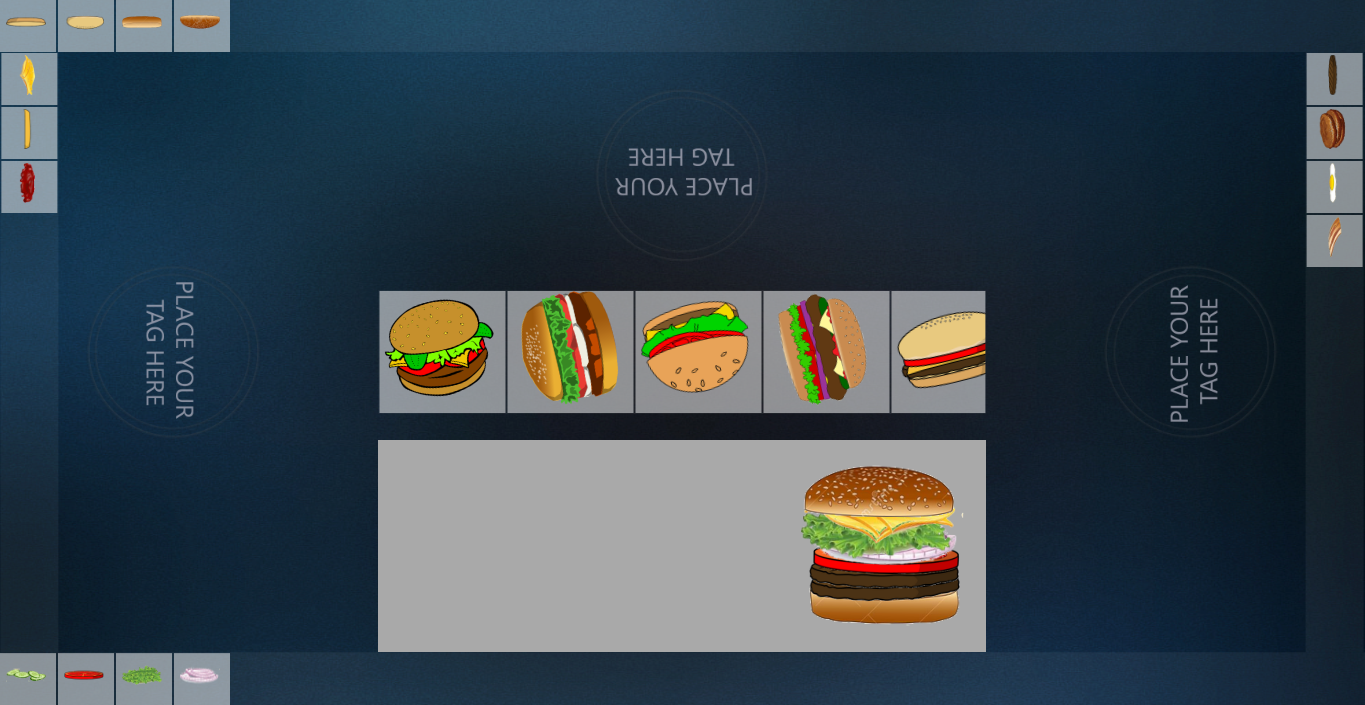
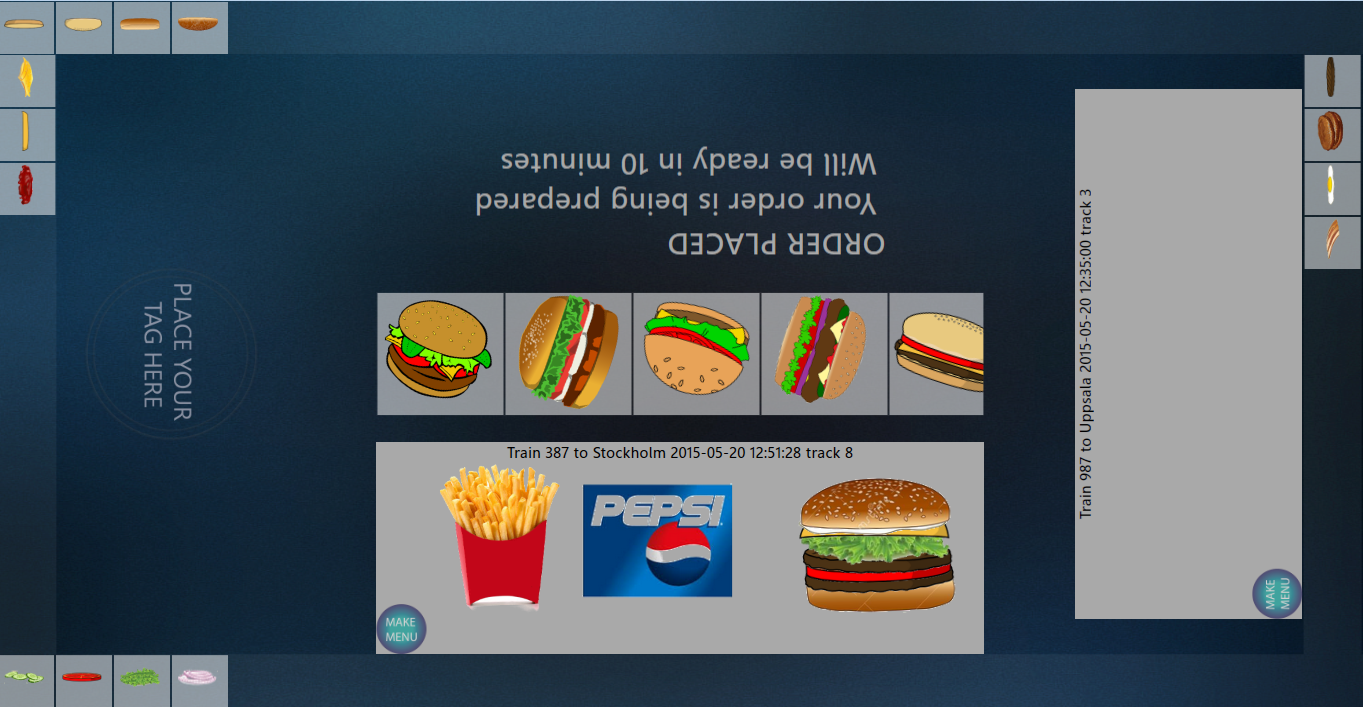
Tag fix and image update

diff --git a/TabletopBurgers/TabletopBurgers/SurfaceWindow1.xaml b/TabletopBurgers/TabletopBurgers/SurfaceWindow1.xaml
@@ -275,7 +275,7 @@
         </Image>
 
         <!-- "Make menu" buttons-->
-        <Image Source="Images/make_menu.png" Name="Make_menu_right" Grid.Column="5" Grid.Row="2" VerticalAlignment="Bottom" HorizontalAlignment="Right" MaxWidth="50" MaxHeight="50" Opacity="0.7" Visibility="Hidden">
+        <Image Source="Images/make_menu.png" Name="Make_menu_right" Grid.Column="5" Grid.Row="4" VerticalAlignment="Bottom" HorizontalAlignment="Right" MaxWidth="50" MaxHeight="50" Opacity="0.7" Visibility="Hidden">
             <Image.LayoutTransform>
                 <RotateTransform Angle="270"/>
             </Image.LayoutTransform>
@@ -297,7 +297,7 @@
         </Image>
 
         <!--- Train info labels -->
-        <TextBlock Name="Train_label_right" Grid.Column="5" Grid.Row="3" VerticalAlignment="Center" HorizontalAlignment="Left" FontSize="15" Foreground="Black" Visibility="Hidden">
+        <TextBlock Name="Train_label_right" Grid.Column="5" Grid.Row="2" Grid.RowSpan="3" VerticalAlignment="Center" HorizontalAlignment="Left" FontSize="15" Foreground="Black" Visibility="Hidden">
             <TextBlock.LayoutTransform>
                 <RotateTransform Angle="270"/>
             </TextBlock.LayoutTransform>
@@ -312,7 +312,7 @@
                 <RotateTransform Angle="0"/>
             </TextBlock.LayoutTransform>
         </TextBlock>
-        <TextBlock Name="Train_label_left" Grid.Column="1" Grid.Row="3" VerticalAlignment="Center" HorizontalAlignment="Right" FontSize="15" Foreground="Black" Visibility="Hidden">
+        <TextBlock Name="Train_label_left" Grid.Column="1" Grid.Row="2" Grid.RowSpan="3" VerticalAlignment="Center" HorizontalAlignment="Right" FontSize="15" Foreground="Black" Visibility="Hidden">
             <TextBlock.LayoutTransform>
                 <RotateTransform Angle="90"/>
             </TextBlock.LayoutTransform>

diff --git a/TabletopBurgers/TabletopBurgers/SurfaceWindow1.xaml.cs b/TabletopBurgers/TabletopBurgers/SurfaceWindow1.xaml.cs
@@ -525,30 +525,32 @@ namespace Drag_and_Drop
             if (c.GetIsTagRecognized() == true)
             {
                 long tagNumber = c.GetTagData().Value;
-
-                Place_tag_left.Visibility = Visibility.Collapsed;
-                Tag tag = TagItems[tagNumber];
-                if (tag.orderPlaced)
+                if (TagItems.ContainsKey(tagNumber))
                 {
-                    Order_placed_left.Visibility = Visibility.Visible;
-                    String minute;
-                    if (tag.timeLeft == 1)
+                    Place_tag_left.Visibility = Visibility.Collapsed;
+                    Tag tag = TagItems[tagNumber];
+                    if (tag.orderPlaced)
                     {
-                        minute = " minute";
+                        Order_placed_left.Visibility = Visibility.Visible;
+                        String minute;
+                        if (tag.timeLeft == 1)
+                        {
+                            minute = " minute";
+                        }
+                        else
+                        {
+                            minute = " minutes";
+                        }
+                        Order_placed_left.Text = "ORDER PLACED\n Your order is being prepared\n Will be ready in " + tag.timeLeft + minute;
                     }
                     else
                     {
-                        minute = " minutes";
+                        scatterLeft.Visibility = Visibility.Visible;
+                        Train_label_left.Visibility = Visibility.Visible;
+                        Train_label_left.Text = "Train " + tag.trainNumber + " to " + tag.destination + " " + tag.time + " track " + tag.track;
+                        Make_menu_left.Visibility = Visibility.Visible;
+
                     }
-                    Order_placed_left.Text = "ORDER PLACED\n Your order is being prepared\n Will be ready in " + tag.timeLeft + minute;
-                }
-                else
-                {
-                    scatterLeft.Visibility = Visibility.Visible;
-                    Train_label_left.Visibility = Visibility.Visible;
-                    Train_label_left.Text = "Train " + tag.trainNumber + " to " + tag.destination + " " + tag.time + " track " + tag.track;
-                    Make_menu_left.Visibility = Visibility.Visible;
-            
                 }
             }
         }
@@ -560,29 +562,31 @@ namespace Drag_and_Drop
             if (c.GetIsTagRecognized() == true)
             {
                 long tagNumber = c.GetTagData().Value;
-
-                Place_tag_down.Visibility = Visibility.Collapsed;
-                Tag tag = TagItems[tagNumber];
-                if (tag.orderPlaced)
+                if (TagItems.ContainsKey(tagNumber))
                 {
-                    String minute;
-                    if (tag.timeLeft == 1)
+                    Place_tag_down.Visibility = Visibility.Collapsed;
+                    Tag tag = TagItems[tagNumber];
+                    if (tag.orderPlaced)
                     {
-                        minute = " minute";
+                        String minute;
+                        if (tag.timeLeft == 1)
+                        {
+                            minute = " minute";
+                        }
+                        else
+                        {
+                            minute = " minutes";
+                        }
+                        Order_placed_down.Visibility = Visibility.Visible;
+                        Order_placed_down.Text = "ORDER PLACED\n Your order is being prepared\n Will be ready in " + tag.timeLeft + minute;
                     }
                     else
                     {
-                        minute = " minutes";
+                        scatterBottom.Visibility = Visibility.Visible;
+                        Train_label_down.Visibility = Visibility.Visible;
+                        Train_label_down.Text = "Train " + tag.trainNumber + " to " + tag.destination + " " + tag.time + " track " + tag.track;
+                        Make_menu_down.Visibility = Visibility.Visible;
                     }
-                    Order_placed_down.Visibility = Visibility.Visible;
-                    Order_placed_down.Text = "ORDER PLACED\n Your order is being prepared\n Will be ready in " + tag.timeLeft + minute;
-                }
-                else
-                {
-                    scatterBottom.Visibility = Visibility.Visible;
-                    Train_label_down.Visibility = Visibility.Visible;
-                    Train_label_down.Text = "Train " + tag.trainNumber + " to " + tag.destination + " " + tag.time + " track " + tag.track;
-                    Make_menu_down.Visibility = Visibility.Visible;
                 }
             }
         }
@@ -594,29 +598,31 @@ namespace Drag_and_Drop
             if (c.GetIsTagRecognized() == true)
             {
                 long tagNumber = c.GetTagData().Value;
-
-                Place_tag_up.Visibility = Visibility.Collapsed;
-                Tag tag = TagItems[tagNumber];
-                if (tag.orderPlaced)
+                if (TagItems.ContainsKey(tagNumber))
                 {
-                    String minute;
-                    if (tag.timeLeft == 1)
+                    Place_tag_up.Visibility = Visibility.Collapsed;
+                    Tag tag = TagItems[tagNumber];
+                    if (tag.orderPlaced)
                     {
-                        minute = " minute";
+                        String minute;
+                        if (tag.timeLeft == 1)
+                        {
+                            minute = " minute";
+                        }
+                        else
+                        {
+                            minute = " minutes";
+                        }
+                        Order_placed_up.Visibility = Visibility.Visible;
+                        Order_placed_up.Text = "ORDER PLACED\n Your order is being prepared\n Will be ready in " + tag.timeLeft + minute;
                     }
                     else
                     {
-                        minute = " minutes";
+                        scatterTop.Visibility = Visibility.Visible;
+                        Train_label_up.Visibility = Visibility.Visible;
+                        Train_label_up.Text = "Train " + tag.trainNumber + " to " + tag.destination + " " + tag.time + " track " + tag.track;
+                        Make_menu_up.Visibility = Visibility.Visible;
                     }
-                    Order_placed_up.Visibility = Visibility.Visible;
-                    Order_placed_up.Text = "ORDER PLACED\n Your order is being prepared\n Will be ready in " + tag.timeLeft + minute;
-                }
-                else
-                {
-                    scatterTop.Visibility = Visibility.Visible;
-                    Train_label_up.Visibility = Visibility.Visible;
-                    Train_label_up.Text = "Train " + tag.trainNumber + " to " + tag.destination + " " + tag.time + " track " + tag.track;
-                    Make_menu_up.Visibility = Visibility.Visible;
                 }
             }
         }
@@ -628,29 +634,32 @@ namespace Drag_and_Drop
             if (c.GetIsTagRecognized() == true)
             {
                 long tagNumber = c.GetTagData().Value;
-                
-                Place_tag_right.Visibility = Visibility.Collapsed;
-                Tag tag = TagItems[tagNumber];
-                if (tag.orderPlaced)
+
+                if (TagItems.ContainsKey(tagNumber))
                 {
-                    String minute;
-                    if (tag.timeLeft == 1)
+                    Place_tag_right.Visibility = Visibility.Collapsed;
+                    Tag tag = TagItems[tagNumber];
+                    if (tag.orderPlaced)
                     {
-                        minute = " minute";
+                        String minute;
+                        if (tag.timeLeft == 1)
+                        {
+                            minute = " minute";
+                        }
+                        else
+                        {
+                            minute = " minutes";
+                        }
+                        Order_placed_right.Visibility = Visibility.Visible;
+                        Order_placed_right.Text = "ORDER PLACED\n Your order is being prepared\n Will be ready in " + tag.timeLeft + minute;
                     }
                     else
                     {
-                        minute = " minutes";
+                        scatterRight.Visibility = Visibility.Visible;
+                        Train_label_right.Visibility = Visibility.Visible;
+                        Train_label_right.Text = "Train " + tag.trainNumber + " to " + tag.destination + " " + tag.time + " track " + tag.track;
+                        Make_menu_right.Visibility = Visibility.Visible;
                     }
-                    Order_placed_right.Visibility = Visibility.Visible;
-                    Order_placed_right.Text = "ORDER PLACED\n Your order is being prepared\n Will be ready in "+tag.timeLeft+ minute;
-                }
-                else
-                {
-                    scatterRight.Visibility = Visibility.Visible;
-                    Train_label_right.Visibility = Visibility.Visible;
-                    Train_label_right.Text = "Train " + tag.trainNumber + " to " + tag.destination + " " + tag.time + " track " + tag.track;
-                    Make_menu_right.Visibility = Visibility.Visible;
                 }
             }
         }
